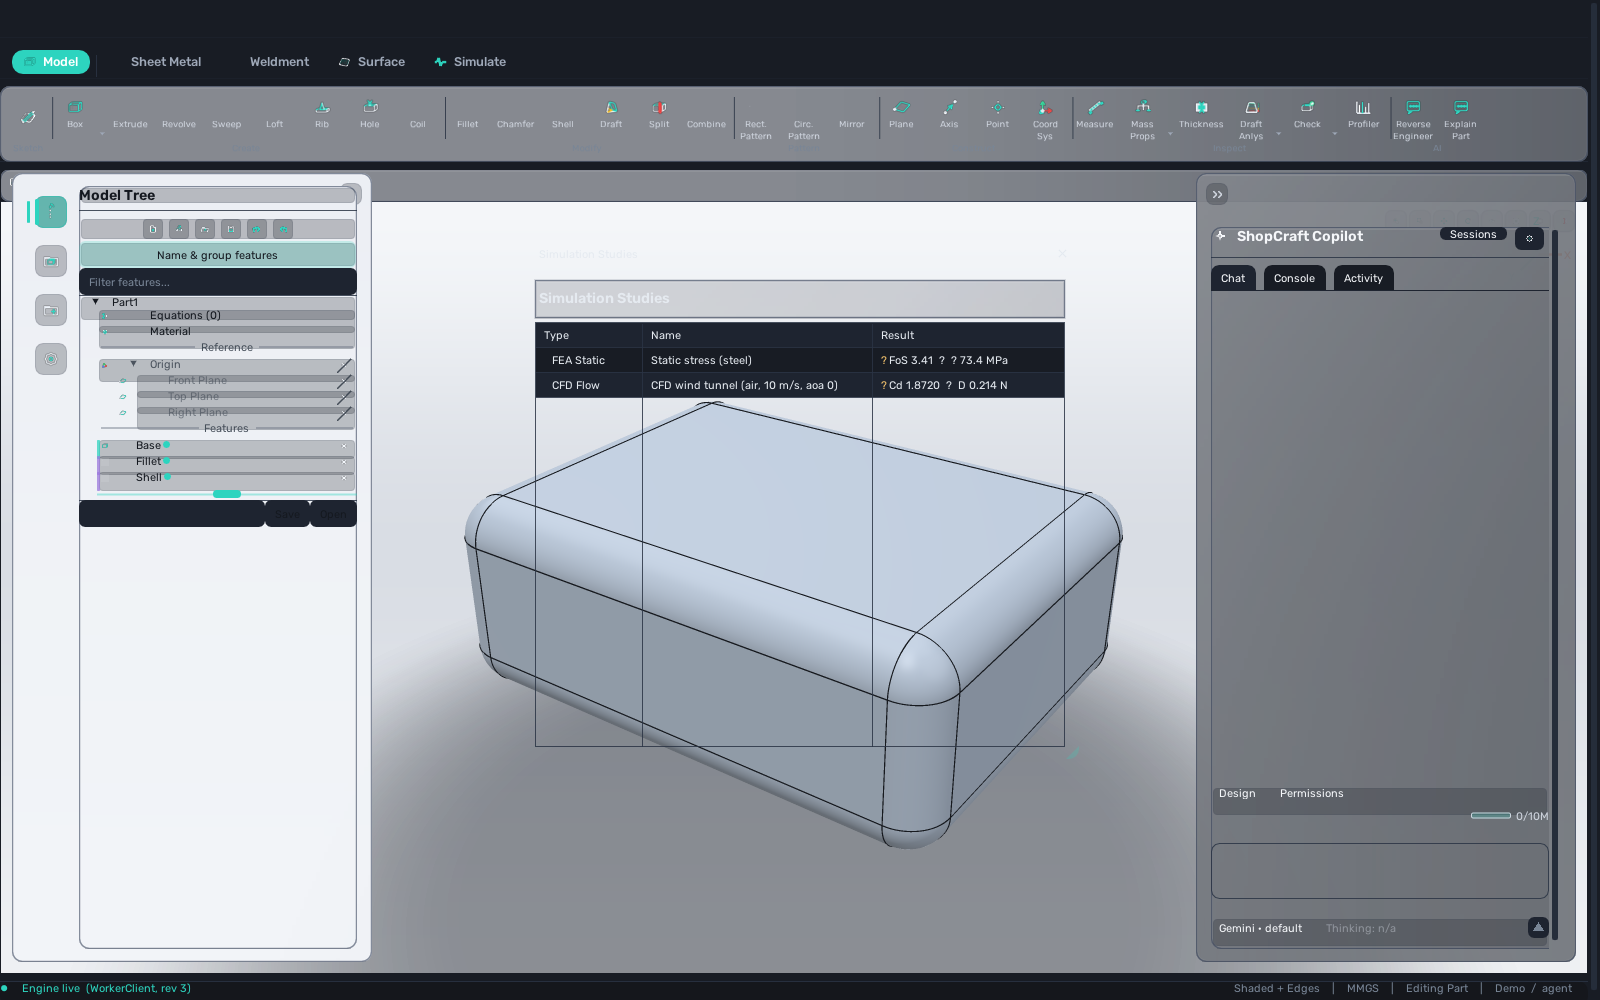
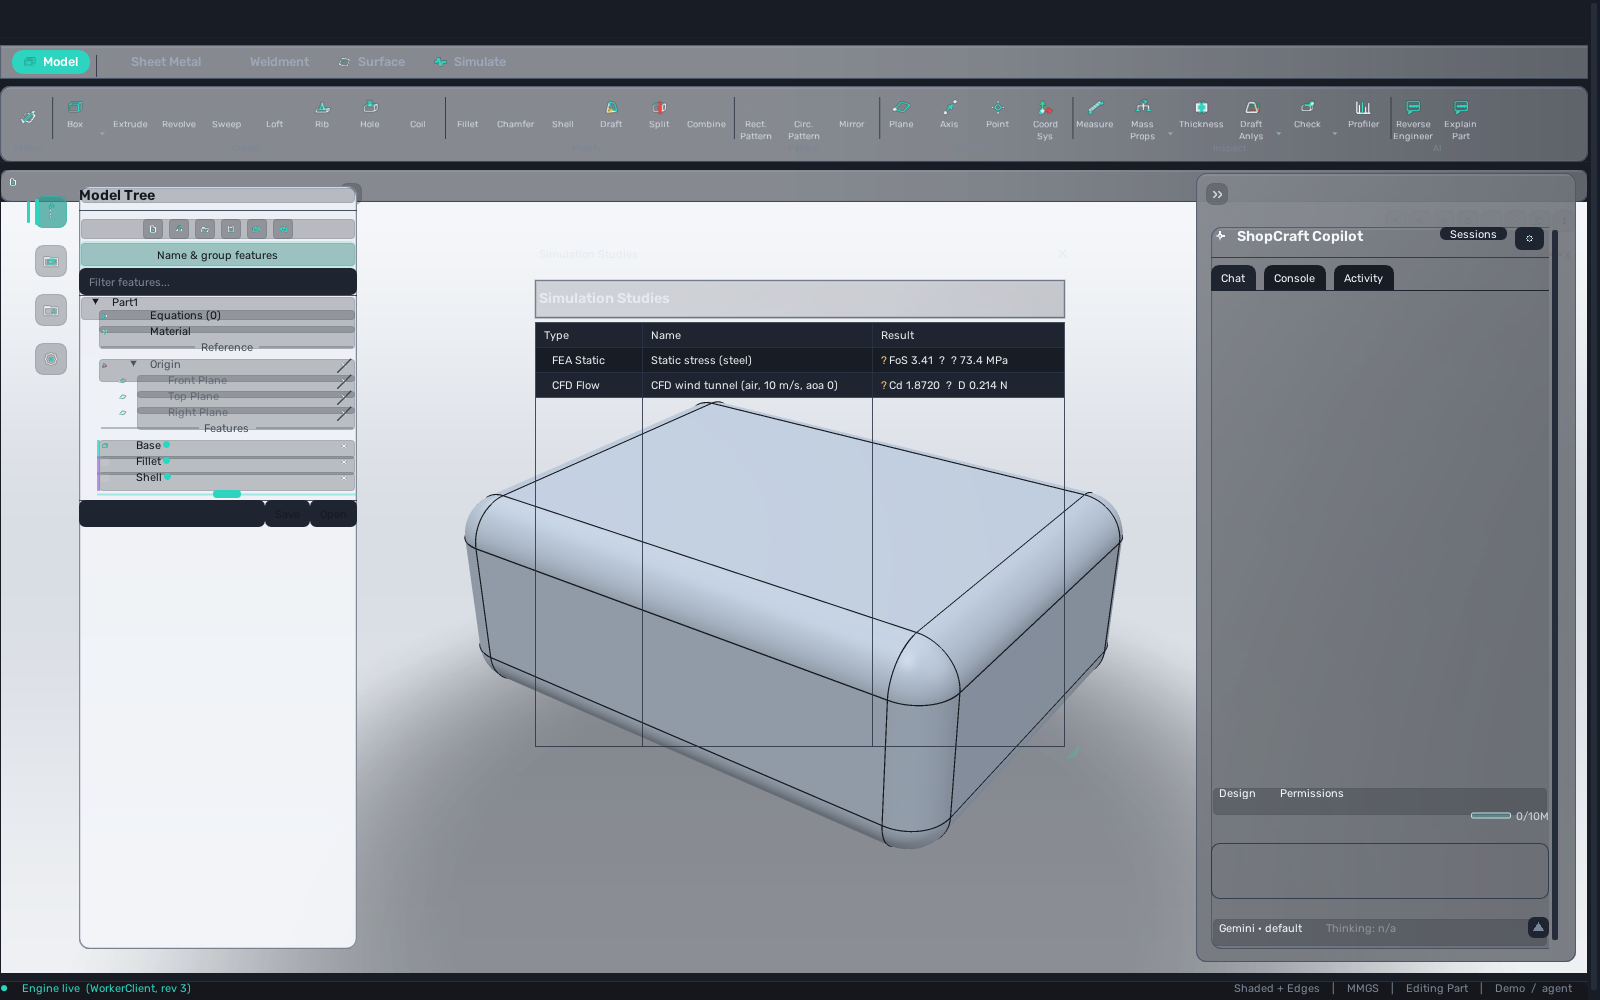
T-G23: float orphaned task-pane dialogs + reconcile left-column glass density
Advisor-caught follow-ups to the chrome port:
- The overlay layout removed the docked rightBottom slot, so the command dialogs that
  used to dock there (evaluate_dialogs: Measure/Mass Props/Section/Geometry Check/
  Zebra/Draft/Wall/Mean curvature; asm_panels: Insert Component/Exploded/Interference/
  BOM; Cut List; Design Table) were about to cascade top-left over the ribbon + left
  column. Anchor them via setNextCommandDialogPlacement() (top-right inside the overlay
  band, left of the Copilot column) on first open — same treatment already given the
  Preview pane. Mate##asm keeps its own explicit pos.
- drawLeftPane no longer paints a third "left_pane_glass" slab under the column:
  drawLeftDock's "browser_glass" + drawActivityRail's "rail_glass" already paint the
  surfaces (as they did when docked), so the extra fill only stacked tint and made the
  rail strip vs body read at different glass densities. Kept the pane-surface resolve
  for the chevron chip + ambient text contrast.

Contact shots regenerated from the final build. ui_style_check + check.py green.

Changed region(s): [[0.0, 0.031, 1.0, 0.093], [0.0938, 0.682, 0.25, 0.961], [0.0, 0.155, 0.25, 0.217]]

diff --git a/ui/imgui/src/ui/asm_panels.cpp b/ui/imgui/src/ui/asm_panels.cpp
@@ -1,5 +1,6 @@
 // Assembly UI panels — ported from host/src/ui/asm_panels.cpp (C5).
 #include "ui/asm_panels.h"
+#include "ui/layout.h"   // T-G23: setNextCommandDialogPlacement (overlay-band float anchor)
 
 #include <algorithm>
 #include <cfloat>
@@ -141,6 +142,7 @@ bool AsmPanels::insertComponent(AppState& st, const std::string& path,
 void AsmPanels::drawInsert(AppState& st) {
     if (!insertOpen_) return;
     bool open = true;
+    ui::setNextCommandDialogPlacement();   // T-G23: float in overlay band (docked slot removed)
     ImGui::SetNextWindowSize(ImVec2(380 * c5::scale(), 0), ImGuiCond_Appearing);  // W1-B (item 10): DPI
     if (insertFocus_) { ImGui::SetNextWindowFocus(); insertFocus_ = false; }
     pushGlassWindow();
@@ -1014,6 +1016,7 @@ bool AsmPanels::setExplode(AppState& st, bool active, float factor) {
 void AsmPanels::drawExplode(AppState& st) {
     if (!explodeOpen_) return;
     bool open = true;
+    ui::setNextCommandDialogPlacement();   // T-G23: float in overlay band (docked slot removed)
     ImGui::SetNextWindowSize(ImVec2(300 * c5::scale(), 0), ImGuiCond_Appearing);  // W1-B (item 10): DPI
     if (explodeFocus_) { ImGui::SetNextWindowFocus(); explodeFocus_ = false; }
     pushGlassWindow();
@@ -1080,6 +1083,7 @@ void AsmPanels::refreshInterference(AppState& st) {
 void AsmPanels::drawInterference(AppState& st) {
     if (!interferenceOpen_) return;
         bool open = true;
+    ui::setNextCommandDialogPlacement();   // T-G23: float in overlay band (docked slot removed)
     ImGui::SetNextWindowSize(ImVec2(420 * c5::scale(), 0), ImGuiCond_Appearing);  // W1-B (item 10): DPI
     if (interferenceFocus_) { ImGui::SetNextWindowFocus(); interferenceFocus_ = false; }
     pushGlassWindow();
@@ -1202,6 +1206,7 @@ void AsmPanels::refreshBom(AppState& st) {
 void AsmPanels::drawBom(AppState& st) {
     if (!bomOpen_) return;
     bool open = true;
+    ui::setNextCommandDialogPlacement();   // T-G23: float in overlay band (docked slot removed)
     ImGui::SetNextWindowSize(ImVec2(560 * c5::scale(), 0), ImGuiCond_Appearing);  // W1-B (item 10): DPI
     if (bomFocus_) { ImGui::SetNextWindowFocus(); bomFocus_ = false; }
     pushGlassWindow();

diff --git a/ui/imgui/src/ui/layout.cpp b/ui/imgui/src/ui/layout.cpp
@@ -269,10 +269,13 @@ void drawLeftPane(app::AppState& s) {
     const ImVec2 wp = ImGui::GetWindowPos(), ws = ImGui::GetWindowSize();
     const ImRect paneRect(wp, ImVec2(wp.x + ws.x, wp.y + ws.y));
     publishOverlayColumnEdge(0, paneRect.Max.x);
+    // The whole-column glass slab is NOT painted here — drawLeftDock() paints the ONE "browser_glass"
+    // UltraThin surface for the body and drawActivityRail() paints "rail_glass", exactly as they did
+    // when docked. Painting a third "left_pane_glass" slab underneath stacked the tint (density
+    // mismatch between rail strip and body). We still resolve the pane surface for the chevron chip
+    // + ambient text contrast (idempotent per frame).
     const theme::AdaptiveSurface& surf =
-        theme::adaptivePanel(theme::panelId("left_pane_glass"), paneRect);
-    theme::glassPanel(ImGui::GetWindowDrawList(), paneRect, theme::MaterialLevel::UltraThin,
-                      bubbleDp, surf);
+        theme::adaptivePanel(theme::panelId("browser_glass"), paneRect);
 
     if (drawCollapseChip(paneRect, /*pointLeft=*/true, surf)) { s_collapsed = true; ImGui::End(); return; }
 

diff --git a/ui/imgui/src/ui/evaluate_dialogs.cpp b/ui/imgui/src/ui/evaluate_dialogs.cpp
@@ -1,5 +1,6 @@
 // Evaluate dialogs — ported from host/src/ui/evaluate_dialogs.cpp (C5).
 #include "ui/evaluate_dialogs.h"
+#include "ui/layout.h"   // T-G23: setNextCommandDialogPlacement (overlay-band float anchor)
 
 #include <cstdio>
 
@@ -161,6 +162,9 @@ bool EvaluateDialogs::handleCommand(AppState& st, const std::string& cmdId) {
 void EvaluateDialogs::draw(AppState& st) {
     if (openWindow_.empty()) return;
     bool open = true;
+    // T-G23: the docked rightBottom task-pane slot is gone (overlay layout) — float these result
+    // dialogs top-right inside the overlay band, left of the Copilot column, on first open.
+    ui::setNextCommandDialogPlacement();
     ImGui::SetNextWindowSize(ImVec2(c5::px(340), 0), ImGuiCond_Appearing);
     // Frosted-glass fill so evaluate result windows float as part of the app-wide glass family
     // (translucent glassBg lets the viewport bleed through subtly; content stays legible).

diff --git a/ui/imgui/src/ui/design_table_panel.cpp b/ui/imgui/src/ui/design_table_panel.cpp
@@ -1,5 +1,6 @@
 // Design Table panel — ported from host/src/ui/design_table_panel.cpp (C5).
 #include "ui/design_table_panel.h"
+#include "ui/layout.h"   // T-G23: setNextCommandDialogPlacement (overlay-band float anchor)
 
 #include <algorithm>
 #include <cstdio>
@@ -261,6 +262,7 @@ void DesignTablePanel::buildCandidates(AppState& st, std::vector<Candidate>& out
 
 void DesignTablePanel::draw(AppState& st) {
     if (!showDesignTablePanel()) return;
+    ui::setNextCommandDialogPlacement();   // T-G23: float in overlay band (docked slot removed)
     if (!ImGui::Begin("Design Table", &showDesignTablePanel())) { ImGui::End(); return; }
 
         ImVec4 accentCol = c5::accent(); accentCol.w = 1.f;

diff --git a/ui/imgui/src/ui/cutlist_panel.cpp b/ui/imgui/src/ui/cutlist_panel.cpp
@@ -1,5 +1,6 @@
 // Weldment Cut List — ported from host/src/ui/cutlist_panel.cpp (C5).
 #include "ui/cutlist_panel.h"
+#include "ui/layout.h"   // T-G23: setNextCommandDialogPlacement (overlay-band float anchor)
 
 #include <string>
 
@@ -60,6 +61,7 @@ void CutListPanel::refresh(AppState& st) {
 
 void CutListPanel::draw(AppState& st) {
     if (!showCutListPanel()) return;
+    ui::setNextCommandDialogPlacement();   // T-G23: float in overlay band (docked slot removed)
     if (!ImGui::Begin("Cut List", &showCutListPanel())) { ImGui::End(); return; }
 
         ImVec4 accentCol = c5::accent(); accentCol.w = 1.f;
